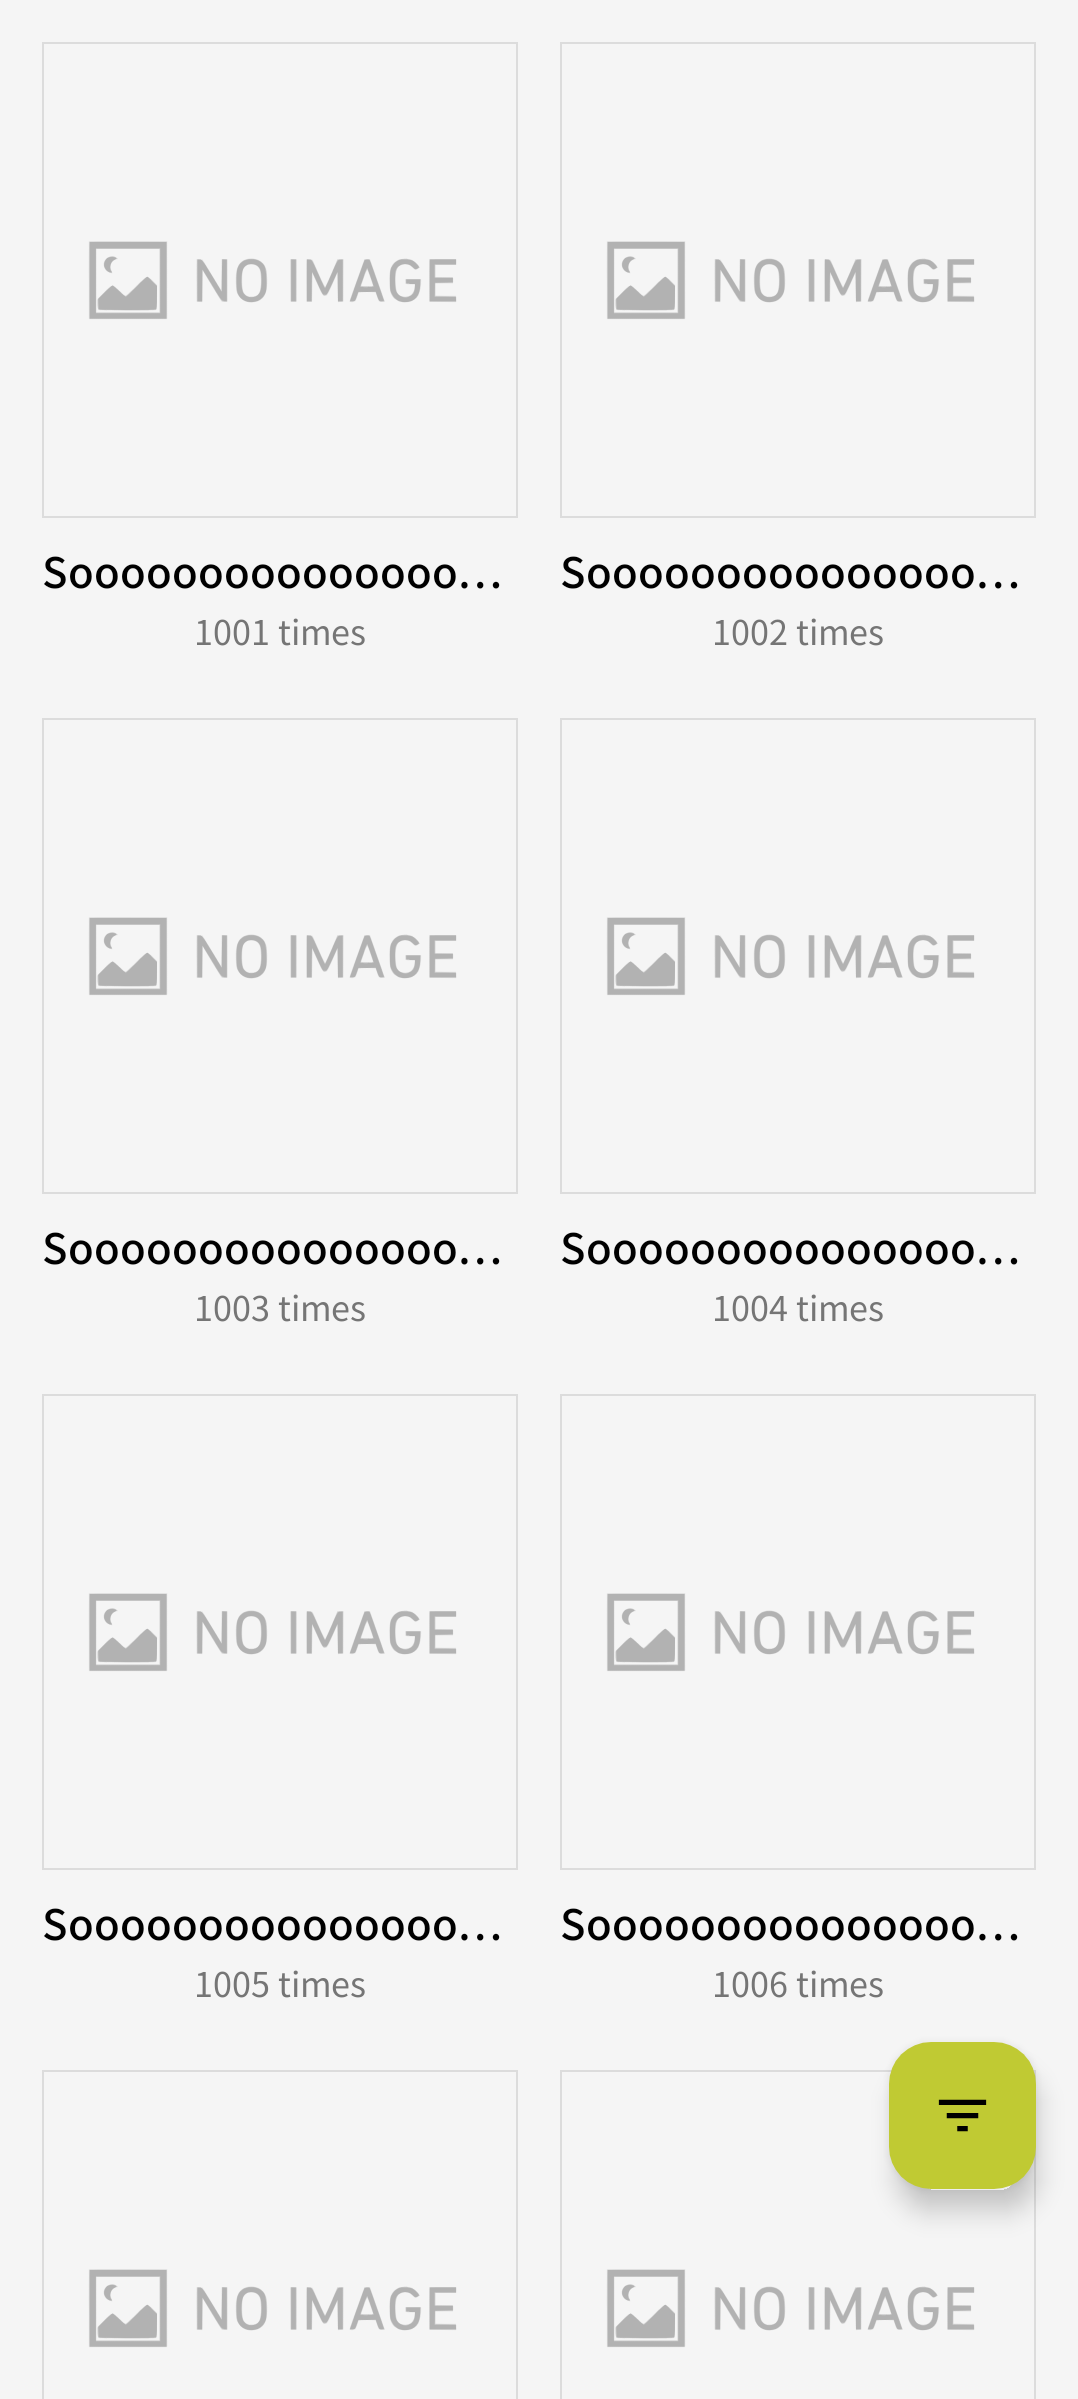
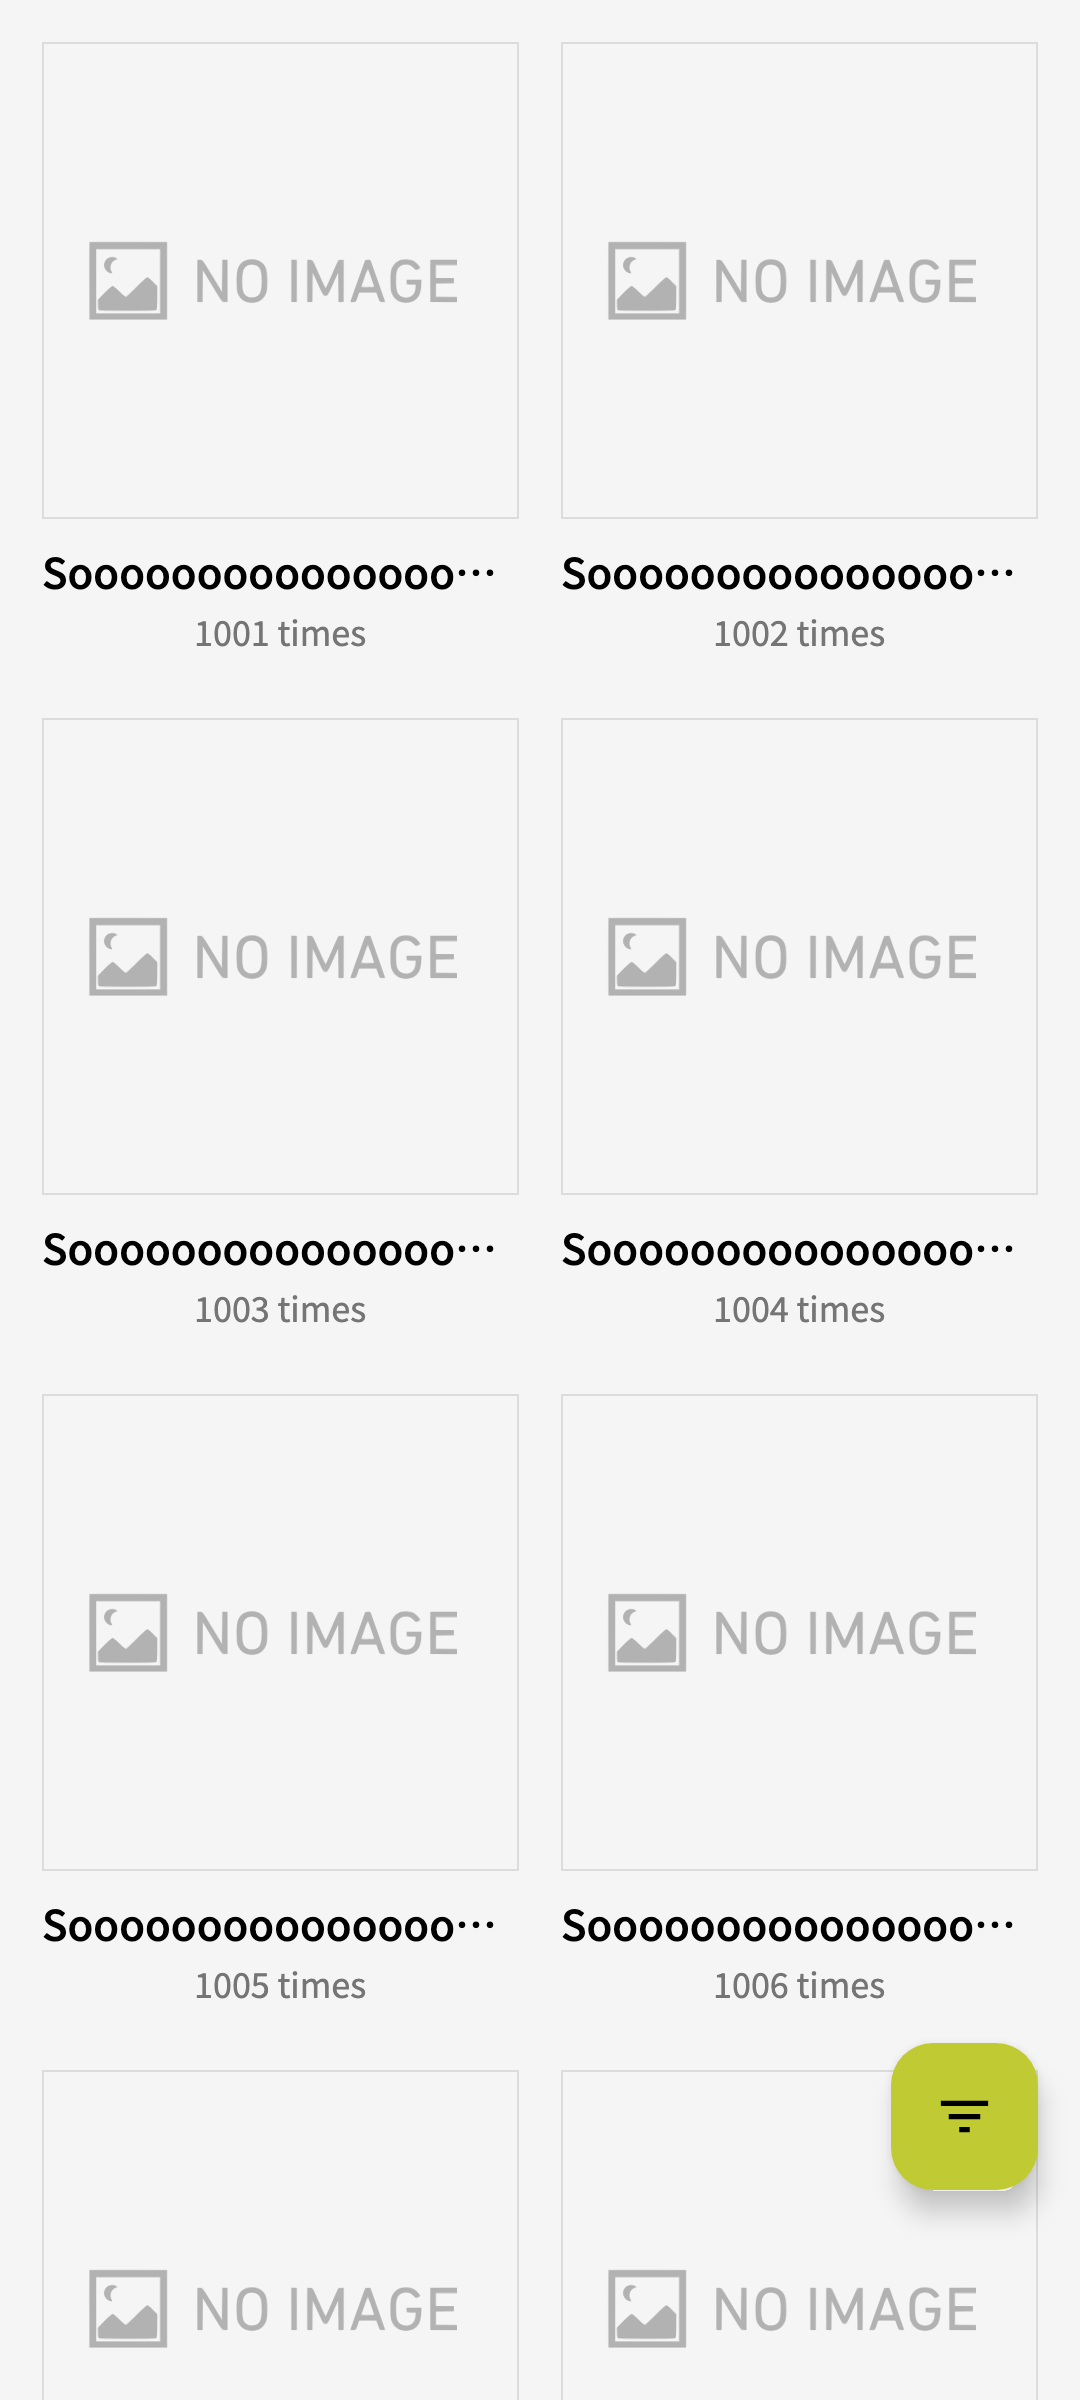
build(artist): convert :feature:artist to KMP and render its VRT on the JVM
- Replace the sunsetscrob.android.* plugins with sunsetscrob.library,
  compose, metro and test.screenshot; keep only module dependencies in
  build.gradle.kts
- Move sources to src/commonMain/kotlin, the manifest to
  src/androidMain and tests to src/jvmTest/kotlin
- TopArtistsScreen: derive landscape from LocalWindowInfo.containerSize
  instead of LocalConfiguration and use the common BackHandler
- TopArtist: read playcount strings through ui_common Compose Resources
  instead of ui_common.R
- Drop the unused menu_top_artists Android string resource
- Rewrite ArtistScreenTest and TopArtistsScreenTest as JUnit 5
  @Tag("VRT") tests on the top-level captureScreenshot; re-record
  goldens on the JVM

diff --git a/feature/artist/src/jvmTest/kotlin/com/mataku/scrobscrob/artist/ui/screen/TopArtistsScreenTest.kt b/feature/artist/src/jvmTest/kotlin/com/mataku/scrobscrob/artist/ui/screen/TopArtistsScreenTest.kt
@@ -2,18 +2,15 @@ package com.mataku.scrobscrob.artist.ui.screen
 
 import androidx.compose.animation.AnimatedContentScope
 import androidx.compose.animation.SharedTransitionLayout
-import androidx.compose.ui.test.junit4.v2.createComposeRule
 import androidx.compose.ui.test.onAllNodesWithText
 import androidx.compose.ui.test.onFirst
 import androidx.compose.ui.test.performClick
-import androidx.test.ext.junit.runners.AndroidJUnit4
-import com.github.takahirom.roborazzi.RobolectricDeviceQualifiers
 import com.mataku.scrobscrob.artist.ui.viewmodel.ArtistViewModel
 import com.mataku.scrobscrob.artist.ui.viewmodel.TopArtistsViewModel
 import com.mataku.scrobscrob.core.entity.AppTheme
 import com.mataku.scrobscrob.core.entity.TimeRangeFiltering
 import com.mataku.scrobscrob.core.entity.TopArtistInfo
-import com.mataku.scrobscrob.test_helper.integration.VRT
+import com.mataku.scrobscrob.test_helper.integration.ScreenshotDevice
 import com.mataku.scrobscrob.test_helper.integration.captureScreenshot
 import com.mataku.scrobscrob.test_helper.integration.fixture.sampleArtistInfo
 import com.mataku.scrobscrob.ui_common.component.designsystem.rememberSunsetTopAppBarScrollBehavior
@@ -22,19 +19,11 @@ import io.mockk.mockk
 import kotlinx.collections.immutable.persistentListOf
 import kotlinx.collections.immutable.toImmutableList
 import kotlinx.coroutines.flow.MutableStateFlow
-import org.junit.Rule
-import org.junit.Test
-import org.junit.experimental.categories.Category
-import org.junit.runner.RunWith
-import org.robolectric.annotation.GraphicsMode
+import org.junit.jupiter.api.Tag
+import org.junit.jupiter.api.Test
 
-@RunWith(AndroidJUnit4::class)
-@GraphicsMode(GraphicsMode.Mode.NATIVE)
-@Category(VRT::class)
+@Tag("VRT")
 class TopArtistsScreenTest {
-  @get:Rule
-  val composeRule = createComposeRule()
-
   private val artistInfoList = (1..20).map {
     TopArtistInfo(
       name = "SoooooooooooooooLoooooooooooooooongName ${it}",
@@ -62,7 +51,7 @@ class TopArtistsScreenTest {
   @Test
   fun layout() {
     val viewModel = stubTopArtistsViewModel()
-    composeRule.captureScreenshot(
+    captureScreenshot(
       appTheme = AppTheme.DARK,
       content = {
         SharedTransitionLayout {
@@ -84,7 +73,7 @@ class TopArtistsScreenTest {
   @Test
   fun layout_light() {
     val viewModel = stubTopArtistsViewModel()
-    composeRule.captureScreenshot(
+    captureScreenshot(
       appTheme = AppTheme.LIGHT,
       content = {
         SharedTransitionLayout {
@@ -106,8 +95,8 @@ class TopArtistsScreenTest {
   @Test
   fun layout_tablet() {
     val viewModel = stubTopArtistsViewModel()
-    composeRule.captureScreenshot(
-      device = RobolectricDeviceQualifiers.PixelTablet,
+    captureScreenshot(
+      device = ScreenshotDevice.PixelTablet,
       appTheme = AppTheme.DARK,
       content = {
         SharedTransitionLayout {
@@ -139,8 +128,8 @@ class TopArtistsScreenTest {
         )
       )
     }
-    composeRule.captureScreenshot(
-      device = RobolectricDeviceQualifiers.PixelTablet,
+    captureScreenshot(
+      device = ScreenshotDevice.PixelTablet,
       appTheme = AppTheme.DARK,
       content = {
         SharedTransitionLayout {
@@ -156,8 +145,8 @@ class TopArtistsScreenTest {
         }
       },
       actionsBeforeCapturing = {
-        composeRule.onAllNodesWithText("SoooooooooooooooLoooooooooooooooongName 1").onFirst().performClick()
-        composeRule.waitForIdle()
+        onAllNodesWithText("SoooooooooooooooLoooooooooooooooongName 1").onFirst().performClick()
+        waitForIdle()
       },
       fileName = "top_artists_screen_tablet_two_pane.png"
     )

diff --git a/feature/artist/src/jvmTest/kotlin/com/mataku/scrobscrob/artist/ui/screen/ArtistScreenTest.kt b/feature/artist/src/jvmTest/kotlin/com/mataku/scrobscrob/artist/ui/screen/ArtistScreenTest.kt
@@ -2,40 +2,29 @@ package com.mataku.scrobscrob.artist.ui.screen
 
 import androidx.compose.animation.AnimatedContentScope
 import androidx.compose.animation.SharedTransitionLayout
-import androidx.compose.ui.test.junit4.v2.createComposeRule
-import androidx.test.ext.junit.runners.AndroidJUnit4
-import com.github.takahirom.roborazzi.RobolectricDeviceQualifiers
 import com.mataku.scrobscrob.artist.ui.navigation.ArtistKey
 import com.mataku.scrobscrob.artist.ui.viewmodel.ArtistViewModel
 import com.mataku.scrobscrob.core.entity.AppTheme
 import com.mataku.scrobscrob.data.repository.ArtistRepository
-import com.mataku.scrobscrob.test_helper.integration.VRT
+import com.mataku.scrobscrob.test_helper.integration.ScreenshotDevice
 import com.mataku.scrobscrob.test_helper.integration.captureScreenshot
 import com.mataku.scrobscrob.test_helper.integration.fixture.sampleArtistInfo
 import io.mockk.every
 import io.mockk.mockk
 import kotlinx.coroutines.flow.flowOf
-import org.junit.Before
-import org.junit.Rule
-import org.junit.Test
-import org.junit.experimental.categories.Category
-import org.junit.runner.RunWith
-import org.robolectric.annotation.GraphicsMode
+import org.junit.jupiter.api.BeforeEach
+import org.junit.jupiter.api.Tag
+import org.junit.jupiter.api.Test
 
-@RunWith(AndroidJUnit4::class)
-@GraphicsMode(GraphicsMode.Mode.NATIVE)
-@Category(VRT::class)
+@Tag("VRT")
 class ArtistScreenTest {
-  @get:Rule
-  val composeRule = createComposeRule()
-
   private val artistName = "aespa"
   private val artworkUrl = ""
   private val artistRepository = mockk<ArtistRepository>()
 
   private val animatedContentScope = mockk<AnimatedContentScope>(relaxed = true)
 
-  @Before
+  @BeforeEach
   fun setup() {
     every {
       artistRepository.artistInfo(artistName)
@@ -49,7 +38,7 @@ class ArtistScreenTest {
       artistRepository = artistRepository,
       key = key
     )
-    composeRule.captureScreenshot(
+    captureScreenshot(
       appTheme = AppTheme.DARK,
       content = {
         SharedTransitionLayout {
@@ -73,7 +62,7 @@ class ArtistScreenTest {
       artistRepository = artistRepository,
       key = key
     )
-    composeRule.captureScreenshot(
+    captureScreenshot(
       appTheme = AppTheme.LIGHT,
       content = {
         SharedTransitionLayout {
@@ -97,8 +86,8 @@ class ArtistScreenTest {
       artistRepository = artistRepository,
       key = key
     )
-    composeRule.captureScreenshot(
-      device = RobolectricDeviceQualifiers.PixelTablet,
+    captureScreenshot(
+      device = ScreenshotDevice.PixelTablet,
       appTheme = AppTheme.DARK,
       content = {
         SharedTransitionLayout {
@@ -114,5 +103,4 @@ class ArtistScreenTest {
       fileName = "artist_screen_tablet.png"
     )
   }
-
 }

diff --git a/feature/artist/src/commonMain/kotlin/com/mataku/scrobscrob/artist/ui/screen/TopArtistsScreen.kt b/feature/artist/src/commonMain/kotlin/com/mataku/scrobscrob/artist/ui/screen/TopArtistsScreen.kt
@@ -1,8 +1,5 @@
 package com.mataku.scrobscrob.artist.ui.screen
 
-import android.annotation.SuppressLint
-import android.content.res.Configuration
-import androidx.activity.compose.BackHandler
 import androidx.compose.animation.AnimatedContentScope
 import androidx.compose.animation.AnimatedVisibilityScope
 import androidx.compose.animation.SharedTransitionScope
@@ -22,9 +19,11 @@ import androidx.compose.runtime.remember
 import androidx.compose.runtime.rememberCoroutineScope
 import androidx.compose.runtime.setValue
 import androidx.compose.ui.Alignment
+import androidx.compose.ui.ExperimentalComposeUiApi
 import androidx.compose.ui.Modifier
+import androidx.compose.ui.backhandler.BackHandler
 import androidx.compose.ui.input.nestedscroll.nestedScroll
-import androidx.compose.ui.platform.LocalConfiguration
+import androidx.compose.ui.platform.LocalWindowInfo
 import androidx.compose.ui.unit.dp
 import androidx.lifecycle.compose.collectAsStateWithLifecycle
 import com.mataku.scrobscrob.artist.ui.molecule.TopArtist
@@ -50,7 +49,6 @@ import com.mataku.scrobscrob.ui_common.style.isCompactWidth
 import kotlinx.collections.immutable.ImmutableList
 import kotlinx.coroutines.launch
 
-@SuppressLint("UnusedMaterial3ScaffoldPaddingParameter")
 @Composable
 fun TopArtistsScreen(
   sharedTransitionScope: SharedTransitionScope,
@@ -121,7 +119,7 @@ fun TopArtistsScreen(
   }
 }
 
-@SuppressLint("UnusedMaterial3ScaffoldPaddingParameter")
+@OptIn(ExperimentalComposeUiApi::class)
 @Composable
 private fun TopArtistsCompact(
   sharedTransitionScope: SharedTransitionScope,
@@ -137,8 +135,8 @@ private fun TopArtistsCompact(
   val bottomSheetState = rememberSunsetModalBottomSheetState()
   var showBottomSheet by remember { mutableStateOf(false) }
   val coroutineScope = rememberCoroutineScope()
-  val configuration = LocalConfiguration.current
-  val orientation = remember { configuration.orientation }
+  val containerSize = LocalWindowInfo.current.containerSize
+  val isLandscape = containerSize.width > containerSize.height
 
   BackHandler(bottomSheetState.isVisible) {
     coroutineScope.launch { bottomSheetState.hide() }
@@ -160,7 +158,7 @@ private fun TopArtistsCompact(
       hasNext = uiState.hasNext,
       onArtistTap = onArtistTap,
       onScrollEnd = onScrollEnd,
-      maxSpanCount = if (orientation == Configuration.ORIENTATION_LANDSCAPE) 4 else 2,
+      maxSpanCount = if (isLandscape) 4 else 2,
       useSharedElement = useSharedElement,
       modifier = Modifier
         .fillMaxSize()

diff --git a/feature/artist/src/commonMain/kotlin/com/mataku/scrobscrob/artist/ui/molecule/TopArtist.kt b/feature/artist/src/commonMain/kotlin/com/mataku/scrobscrob/artist/ui/molecule/TopArtist.kt
@@ -13,16 +13,18 @@ import androidx.compose.runtime.Composable
 import androidx.compose.ui.Alignment
 import androidx.compose.ui.Modifier
 import androidx.compose.ui.layout.ContentScale
-import androidx.compose.ui.res.stringResource
 import androidx.compose.ui.text.font.FontWeight
 import androidx.compose.ui.text.style.TextOverflow
 import androidx.compose.ui.unit.dp
 import com.mataku.scrobscrob.core.entity.TopArtistInfo
-import com.mataku.scrobscrob.ui_common.R
+import com.mataku.scrobscrob.ui_common.generated.resources.Res
+import com.mataku.scrobscrob.ui_common.generated.resources.playcount
+import com.mataku.scrobscrob.ui_common.generated.resources.playcounts
 import com.mataku.scrobscrob.ui_common.component.designsystem.SunsetText
 import com.mataku.scrobscrob.ui_common.component.designsystem.SunsetImage
 import com.mataku.scrobscrob.ui_common.style.LocalAppTheme
 import com.mataku.scrobscrob.ui_common.style.onSecondaryColor
+import org.jetbrains.compose.resources.stringResource
 
 @Composable
 internal fun TopArtist(
@@ -79,9 +81,9 @@ internal fun TopArtist(
       overflow = TextOverflow.Ellipsis
     )
     val playCountResource = if (artist.playCount == "1") {
-      R.string.playcount
+      Res.string.playcount
     } else {
-      R.string.playcounts
+      Res.string.playcounts
     }
     Spacer(modifier = Modifier.height(2.dp))
     SunsetText.Caption(
